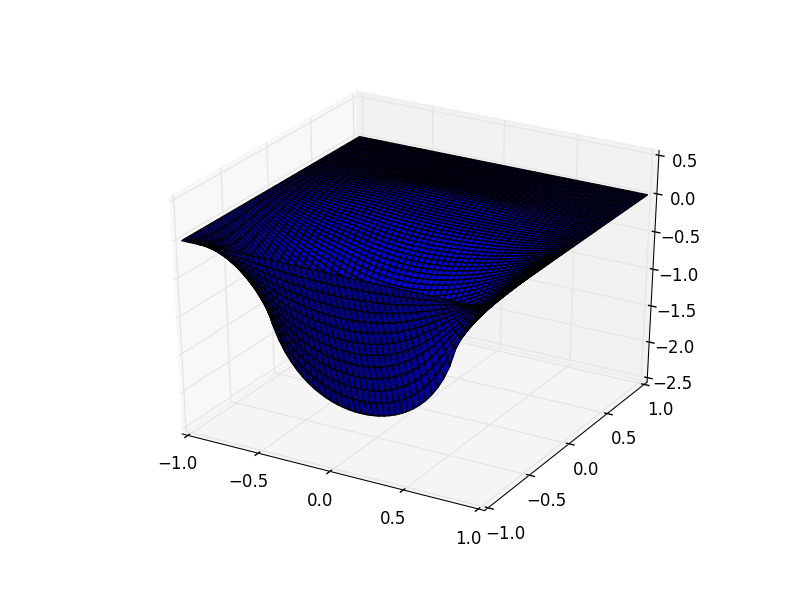
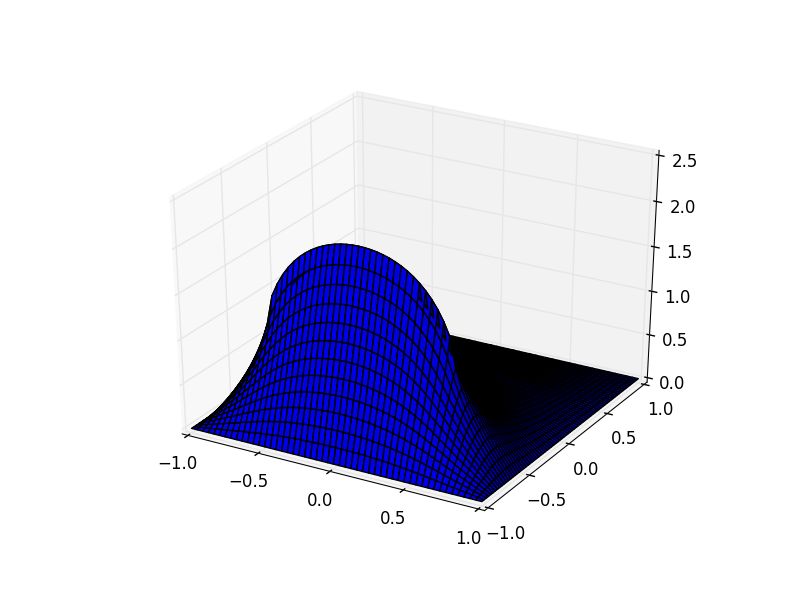
se ordena funcion una_iteracion

Changed region(s): [[0.2188, 0.21, 0.875, 0.84], [0.8125, 0.39, 0.875, 0.6]]

diff --git a/tarea5_distintosw.py b/tarea5_distintosw.py
@@ -31,45 +31,71 @@ def rho(i, j, h):
 # hay una ec para los puntos lejanos a la linea neumann
 # hay otra para los inmediatamente vecinos a la linea neumann
 
-def una_iteracion(v, v_next, N_pasos_x, N_pasos_y, h=0.2, w=1.2):
-    for i in range(1, N_pasos_x-1):
-        # abajo
-        for j in range(1, 12):
-            v_next[i, j] = ((1 - w) * v[i, j] +
-                            w / 4 * (v[i+1, j] + v_next[i-1, j] +
-                            v[i, j+1] + v_next[i, j-1] +
-                            h**2 * rho(i, j, h)))
-        # arriba
-        for j in range(14, N_pasos_y-1):
+def una_iteracion(v, v_next, N_pasos_x, N_pasos_y, h=0.2, w=1.0):
+#sector bajo linea
+    for j in range(1, 11):
+        for i in range(1, N_pasos_x-1):
             v_next[i, j] = ((1 - w) * v[i, j] +
                             w / 4 * (v[i+1, j] + v_next[i-1, j] +
                             v[i, j+1] + v_next[i, j-1] +
                             h**2 * rho(i, j, h)))
 
-    for j in range(11, 15):
-        # izq
+#sector sobre linea
+    for j in range(14, N_pasos_y-1):
+        for i in range(1, N_pasos_x-1):
+            v_next[i, j] = ((1 - w) * v[i, j] +
+                            w / 4 * (v[i+1, j] + v_next[i-1, j] +
+                            v[i, j+1] + v_next[i, j-1] +
+                            h**2 * rho(i, j, h)))
+
+# antes de la linea
+    for j in range(11, 12):
         for i in range(1, 10):
             v_next[i, j] = ((1 - w) * v[i, j] +
                             w / 4 * (v[i+1, j] + v_next[i-1, j] +
                             v[i, j+1] + v_next[i, j-1] +
                             h**2 * rho(i, j, h)))
-        # der
         for i in range(41, N_pasos_x-1):
             v_next[i, j] = ((1 - w) * v[i, j] +
                             w / 4 * (v[i+1, j] + v_next[i-1, j] +
                             v[i, j+1] + v_next[i, j-1] +
                             h**2 * rho(i, j, h)))
+        for i in range(10, 41):
+            v_next[i, j] = ((1 - w) * v[i, j] +
+                            w / 3 * (v[i+1, j] + v_next[i-1, j] +
+                            v_next[i, j-1] - h**2 * rho(i, j, h) + h))
 
-    # vecinos inmdiatos
-    for i in range(10, 41):
-        for j in range(12, 13):  # abajo
+# despues de la linea
+    for j in range(13, 14):
+        for i in range(1, 10):
+            v_next[i, j] = ((1 - w) * v[i, j] +
+                            w / 4 * (v[i+1, j] + v_next[i-1, j] +
+                            v[i, j+1] + v_next[i, j-1] +
+                            h**2 * rho(i, j, h)))
+        for i in range(41, N_pasos_x-1):
+            v_next[i, j] = ((1 - w) * v[i, j] +
+                            w / 4 * (v[i+1, j] + v_next[i-1, j] +
+                            v[i, j+1] + v_next[i, j-1] +
+                            h**2 * rho(i, j, h)))
+        for i in range(10, 41):
             v_next[i, j] = ((1 - w) * v[i, j] +
                             w / 3 * (v[i+1, j] + v_next[i-1, j] +
-                            v_next[i, j-1] + h**2 * rho(i, j, h) + h*(-1.)))
-        for j in range(13, 14):  # arriba
+                            v_next[i, j-1] - h**2 * rho(i, j, h) - h))
+# en la linea
+    for j in range(12, 13):
+        for i in range(1, 10):
             v_next[i, j] = ((1 - w) * v[i, j] +
-                            w / 3 * (v[i+1, j] + v_next[i-1, j] +
-                            v_next[i, j-1] + h**2 * rho(i, j, h) + h*(1.)))
+                            w / 4 * (v[i+1, j] + v_next[i-1, j] +
+                            v[i, j+1] + v_next[i, j-1] +
+                            h**2 * rho(i, j, h)))
+        for i in range(41, N_pasos_x-1):
+            v_next[i, j] = ((1 - w) * v[i, j] +
+                            w / 4 * (v[i+1, j] + v_next[i-1, j] +
+                            v[i, j+1] + v_next[i, j-1] +
+                            h**2 * rho(i, j, h)))
+        for i in range(10, 41):
+            v_next[i, j] = v_next[i, j-1] + h
+
 
 
 def no_ha_convergido(v, v_next, tolerancia=1e-3):

diff --git a/tarea5_w_1.py b/tarea5_w_1.py
@@ -31,45 +31,71 @@ def rho(i, j, h):
 # hay una ec para los puntos lejanos a la linea neumann
 # hay otra para los inmediatamente vecinos a la linea neumann
 
-def una_iteracion(v, v_next, N_pasos_x, N_pasos_y, h=0.2, w=1.2):
-    for i in range(1, N_pasos_x-1):
-        # abajo
-        for j in range(1, 12):
-            v_next[i, j] = ((1 - w) * v[i, j] +
-                            w / 4 * (v[i+1, j] + v_next[i-1, j] +
-                            v[i, j+1] + v_next[i, j-1] +
-                            h**2 * rho(i, j, h)))
-        # arriba
-        for j in range(14, N_pasos_y-1):
+def una_iteracion(v, v_next, N_pasos_x, N_pasos_y, h=0.2, w=1.0):
+#sector bajo linea
+    for j in range(1, 11):
+        for i in range(1, N_pasos_x-1):
             v_next[i, j] = ((1 - w) * v[i, j] +
                             w / 4 * (v[i+1, j] + v_next[i-1, j] +
                             v[i, j+1] + v_next[i, j-1] +
                             h**2 * rho(i, j, h)))
 
-    for j in range(11, 15):
-        # izq
+#sector sobre linea
+    for j in range(14, N_pasos_y-1):
+        for i in range(1, N_pasos_x-1):
+            v_next[i, j] = ((1 - w) * v[i, j] +
+                            w / 4 * (v[i+1, j] + v_next[i-1, j] +
+                            v[i, j+1] + v_next[i, j-1] +
+                            h**2 * rho(i, j, h)))
+
+# antes de la linea
+    for j in range(11, 12):
         for i in range(1, 10):
             v_next[i, j] = ((1 - w) * v[i, j] +
                             w / 4 * (v[i+1, j] + v_next[i-1, j] +
                             v[i, j+1] + v_next[i, j-1] +
                             h**2 * rho(i, j, h)))
-        # der
         for i in range(41, N_pasos_x-1):
             v_next[i, j] = ((1 - w) * v[i, j] +
                             w / 4 * (v[i+1, j] + v_next[i-1, j] +
                             v[i, j+1] + v_next[i, j-1] +
                             h**2 * rho(i, j, h)))
+        for i in range(10, 41):
+            v_next[i, j] = ((1 - w) * v[i, j] +
+                            w / 3 * (v[i+1, j] + v_next[i-1, j] +
+                            v_next[i, j-1] - h**2 * rho(i, j, h) + h))
 
-    # vecinos inmdiatos
-    for i in range(10, 41):
-        for j in range(12, 13):  # abajo
+# despues de la linea
+    for j in range(13, 14):
+        for i in range(1, 10):
+            v_next[i, j] = ((1 - w) * v[i, j] +
+                            w / 4 * (v[i+1, j] + v_next[i-1, j] +
+                            v[i, j+1] + v_next[i, j-1] +
+                            h**2 * rho(i, j, h)))
+        for i in range(41, N_pasos_x-1):
+            v_next[i, j] = ((1 - w) * v[i, j] +
+                            w / 4 * (v[i+1, j] + v_next[i-1, j] +
+                            v[i, j+1] + v_next[i, j-1] +
+                            h**2 * rho(i, j, h)))
+        for i in range(10, 41):
             v_next[i, j] = ((1 - w) * v[i, j] +
                             w / 3 * (v[i+1, j] + v_next[i-1, j] +
-                            v_next[i, j-1] + h**2 * rho(i, j, h) + h*(-1.)))
-        for j in range(13, 14):  # arriba
+                            v_next[i, j-1] - h**2 * rho(i, j, h) - h))
+# en la linea
+    for j in range(12, 13):
+        for i in range(1, 10):
             v_next[i, j] = ((1 - w) * v[i, j] +
-                            w / 3 * (v[i+1, j] + v_next[i-1, j] +
-                            v_next[i, j-1] + h**2 * rho(i, j, h) + h*(1.)))
+                            w / 4 * (v[i+1, j] + v_next[i-1, j] +
+                            v[i, j+1] + v_next[i, j-1] +
+                            h**2 * rho(i, j, h)))
+        for i in range(41, N_pasos_x-1):
+            v_next[i, j] = ((1 - w) * v[i, j] +
+                            w / 4 * (v[i+1, j] + v_next[i-1, j] +
+                            v[i, j+1] + v_next[i, j-1] +
+                            h**2 * rho(i, j, h)))
+        for i in range(10, 41):
+            v_next[i, j] = v_next[i, j-1] + h
+
 
 
 def no_ha_convergido(v, v_next, tolerancia=1e-3):
